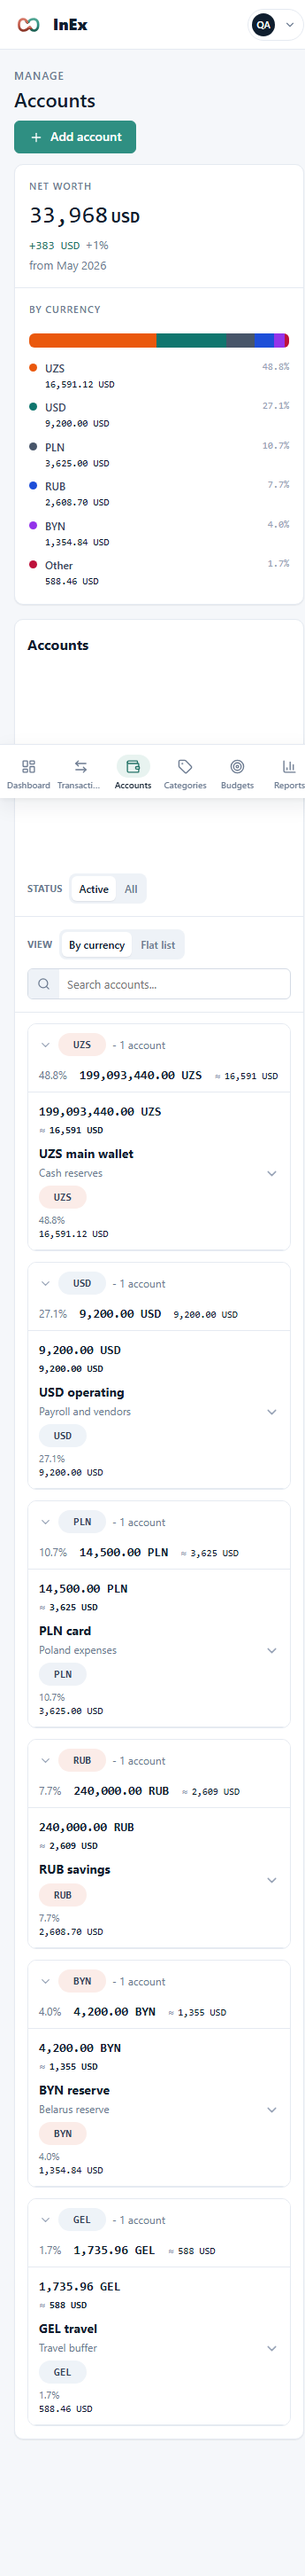
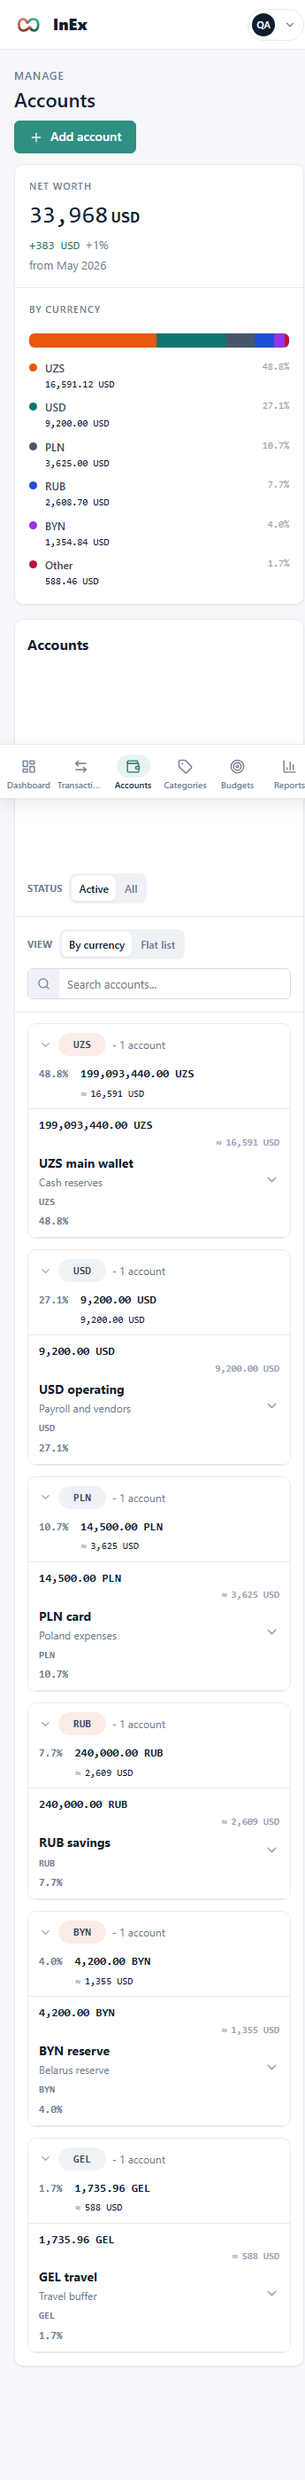
Fix Accounts column alignment and balance hierarchy

diff --git a/inex/ClientApp/src/pages/Accounts.tsx b/inex/ClientApp/src/pages/Accounts.tsx
@@ -426,12 +426,16 @@ const Accounts = () => {
         const accountValue = account.value;
         const balanceUnavailable = accountValue === undefined;
         const displayDescription = getAccountDisplayDescription(account.name, account.description);
+        const isZeroValue = !balanceUnavailable
+            && accountValue === 0
+            && (account.baseValue === null || account.baseValue === 0)
+            && (share === null || share === 0);
 
         return (
             <div className="accounts-row-wrap" key={account.id}>
                 <button
                     aria-expanded={expanded}
-                    className={`accounts-row${account.isEnabled ? "" : " is-disabled"}`}
+                    className={`accounts-row${account.isEnabled ? "" : " is-disabled"}${isZeroValue ? " is-zero-value" : ""}`}
                     onClick={() => setExpandedId(expanded ? null : account.id)}
                     type="button"
                 >
@@ -444,29 +448,26 @@ const Accounts = () => {
                             )}
                         </span>
                     </span>
-                    <span className={`accounts-currency-badge is-${currencyToneClass(account.currency)}`}>
+                    <span className="accounts-row__currency">
                         {account.currency}
                     </span>
                     <span className="accounts-row__share">
-                        <span>
-                            {share === null
-                                ? t("accounts.equivalent.unavailable")
-                                : t("accounts.shareOfNetWorth", { value: share.toFixed(1) })}
-                        </span>
-                        {account.baseValue !== null && renderBaseEquivalent(account.baseValue, {
-                            className: "accounts-row__equivalent",
-                        })}
+                        {share === null
+                            ? t("accounts.equivalent.unavailable")
+                            : t("accounts.shareOfNetWorth", { value: share.toFixed(1) })}
                     </span>
                     <span className="accounts-row__balance">
                         {balanceUnavailable
                             ? <span className="accounts-muted-metric">{t("accounts.hero.balanceUnavailable")}</span>
                             : (
                                 <React.Fragment>
-                                    <Num
-                                        currency={account.currency}
-                                        kind={accountValue < 0 ? "expense" : "neutral"}
-                                        value={toFixedMoney(accountValue)}
-                                    />
+                                    <span className="accounts-row__balance-primary">
+                                        <Num
+                                            currency={account.currency}
+                                            kind={accountValue < 0 ? "expense" : "neutral"}
+                                            value={toFixedMoney(accountValue)}
+                                        />
+                                    </span>
                                     {renderBaseEquivalent(account.baseValue, {
                                         approx: account.currency !== baseCurrency,
                                         className: "accounts-row__balance-equivalent",
@@ -580,22 +581,24 @@ const Accounts = () => {
                                 </span>
                                 <span className="accounts-group__metrics">
                                     <span className="accounts-group__share">{groupShare}</span>
-                                    <span className="accounts-group__subtotal">
-                                        {group.accounts.every((account) => account.value !== undefined)
-                                            ? (
-                                                <Num
-                                                    currency={group.currency}
-                                                    kind={group.subtotal < 0 ? "expense" : "neutral"}
-                                                    value={toFixedMoney(group.subtotal)}
-                                                />
-                                            )
-                                            : t("accounts.hero.balanceUnavailable")}
+                                    <span className="accounts-group__balance">
+                                        <span className="accounts-group__subtotal">
+                                            {group.accounts.every((account) => account.value !== undefined)
+                                                ? (
+                                                    <Num
+                                                        currency={group.currency}
+                                                        kind={group.subtotal < 0 ? "expense" : "neutral"}
+                                                        value={toFixedMoney(group.subtotal)}
+                                                    />
+                                                )
+                                                : t("accounts.hero.balanceUnavailable")}
+                                        </span>
+                                        {renderBaseEquivalent(group.baseSubtotal, {
+                                            approx: group.currency !== baseCurrency,
+                                            className: "accounts-group__base",
+                                            fractionDigits: group.currency !== baseCurrency ? 0 : undefined,
+                                        })}
                                     </span>
-                                    {renderBaseEquivalent(group.baseSubtotal, {
-                                        approx: group.currency !== baseCurrency,
-                                        className: "accounts-group__base",
-                                        fractionDigits: group.currency !== baseCurrency ? 0 : undefined,
-                                    })}
                                 </span>
                             </button>
                             {!collapsed && <div className="accounts-list">{group.accounts.map(renderRow)}</div>}

diff --git a/inex/ClientApp/src/pages/Accounts/accounts.css b/inex/ClientApp/src/pages/Accounts/accounts.css
@@ -200,6 +200,7 @@
 }
 
 .accounts-card {
+    --accounts-inventory-grid: minmax(240px, 1fr) 88px minmax(96px, 112px) minmax(210px, 250px) 24px;
     overflow: hidden;
 }
 
@@ -352,7 +353,7 @@
     display: grid;
     font-family: var(--font-sans);
     gap: 10px;
-    grid-template-columns: minmax(0, 1fr) auto;
+    grid-template-columns: var(--accounts-inventory-grid);
     padding: 10px 14px 8px;
     text-align: left;
     width: 100%;
@@ -370,6 +371,7 @@
     flex-wrap: wrap;
     font-size: 12px;
     gap: 7px;
+    grid-column: 1 / 3;
     min-width: 0;
 }
 
@@ -379,22 +381,35 @@
 }
 
 .accounts-group__metrics {
-    align-items: baseline;
-    display: flex;
-    flex-wrap: wrap;
-    gap: 8px 14px;
-    justify-content: flex-end;
+    display: contents;
+}
+
+.accounts-group__balance {
+    display: grid;
+    gap: 4px;
+    grid-column: 4;
+    justify-items: end;
     min-width: 0;
     text-align: right;
 }
 
 .accounts-group__subtotal {
+    color: var(--fg-1);
+    font-family: var(--font-num);
+    font-size: 13px;
+    font-variant-numeric: tabular-nums;
     font-weight: 700;
 }
 
 .accounts-group__share {
     color: var(--fg-3);
     font-size: 12px;
+    font-family: var(--font-num);
+    font-variant-numeric: tabular-nums;
+    font-weight: 600;
+    grid-column: 3;
+    justify-self: end;
+    text-align: right;
 }
 
 .accounts-list-header {
@@ -405,9 +420,13 @@
     font-size: 10px;
     font-weight: 800;
     gap: 10px;
-    grid-template-columns: minmax(220px, 1.8fr) 100px minmax(120px, 130px) minmax(120px, 130px) 24px;
+    grid-template-columns: var(--accounts-inventory-grid);
     letter-spacing: 0;
     padding: 9px 34px 7px;
+}
+
+.accounts-list-header span:nth-child(2) {
+    text-align: center;
 }
 
 .accounts-list-header span:nth-child(3),
@@ -438,7 +457,7 @@
     display: grid;
     font-family: var(--font-sans);
     gap: 10px;
-    grid-template-columns: minmax(220px, 1.8fr) 100px minmax(120px, 130px) minmax(120px, 130px) 24px;
+    grid-template-columns: var(--accounts-inventory-grid);
     padding: 9px 14px;
     position: relative;
     text-align: left;
@@ -466,6 +485,7 @@
 }
 
 .accounts-row__main,
+.accounts-row__currency,
 .accounts-row__share,
 .accounts-row__balance {
     min-width: 0;
@@ -500,19 +520,59 @@
 
 .accounts-row__share {
     color: var(--fg-3);
-    display: grid;
-    font-size: 11px;
-    gap: 2px;
+    font-family: var(--font-num);
+    font-size: 12px;
+    font-variant-numeric: tabular-nums;
+    font-weight: 600;
     line-height: 1.25;
     text-align: right;
 }
 
+.accounts-row__currency {
+    color: var(--fg-3);
+    font-family: var(--font-num);
+    font-size: 11px;
+    font-variant-numeric: tabular-nums;
+    font-weight: 700;
+    justify-self: center;
+}
+
 .accounts-row__balance {
     display: grid;
-    gap: 2px;
+    gap: 4px;
     justify-items: end;
     font-weight: 700;
+    line-height: 1.2;
     text-align: right;
+}
+
+.accounts-row__balance-primary {
+    color: var(--fg-1);
+    font-family: var(--font-num);
+    font-size: 13px;
+    font-variant-numeric: tabular-nums;
+    font-weight: 800;
+    min-width: 0;
+}
+
+.accounts-row__balance-equivalent {
+    color: var(--fg-4);
+    font-size: 11px;
+    font-weight: 600;
+    justify-self: end;
+}
+
+.accounts-row__balance-equivalent [role="text"] span {
+    color: inherit !important;
+}
+
+.accounts-row.is-zero-value .accounts-row__share,
+.accounts-row.is-zero-value .accounts-row__currency,
+.accounts-row.is-zero-value .accounts-row__balance-primary [role="text"] span,
+.accounts-row.is-zero-value .accounts-row__balance-equivalent,
+.accounts-row.is-zero-value .accounts-row__balance-equivalent [role="text"] span {
+    color: var(--fg-4) !important;
+    font-weight: 600;
 }
 
 .accounts-row__chevron {
@@ -721,8 +781,22 @@
         padding: 10px 12px 8px;
     }
 
+    .accounts-group__identity {
+        grid-column: 1;
+    }
+
     .accounts-group__metrics {
+        align-items: baseline;
+        display: flex;
+        flex-wrap: wrap;
+        gap: 8px 14px;
+        grid-column: 1;
         justify-content: flex-start;
+        text-align: left;
+    }
+
+    .accounts-group__balance {
+        justify-items: start;
         text-align: left;
     }
 
@@ -748,7 +822,7 @@
         grid-row: 2;
     }
 
-    .accounts-currency-badge {
+    .accounts-row__currency {
         grid-column: 1;
         grid-row: 3;
         justify-self: start;
